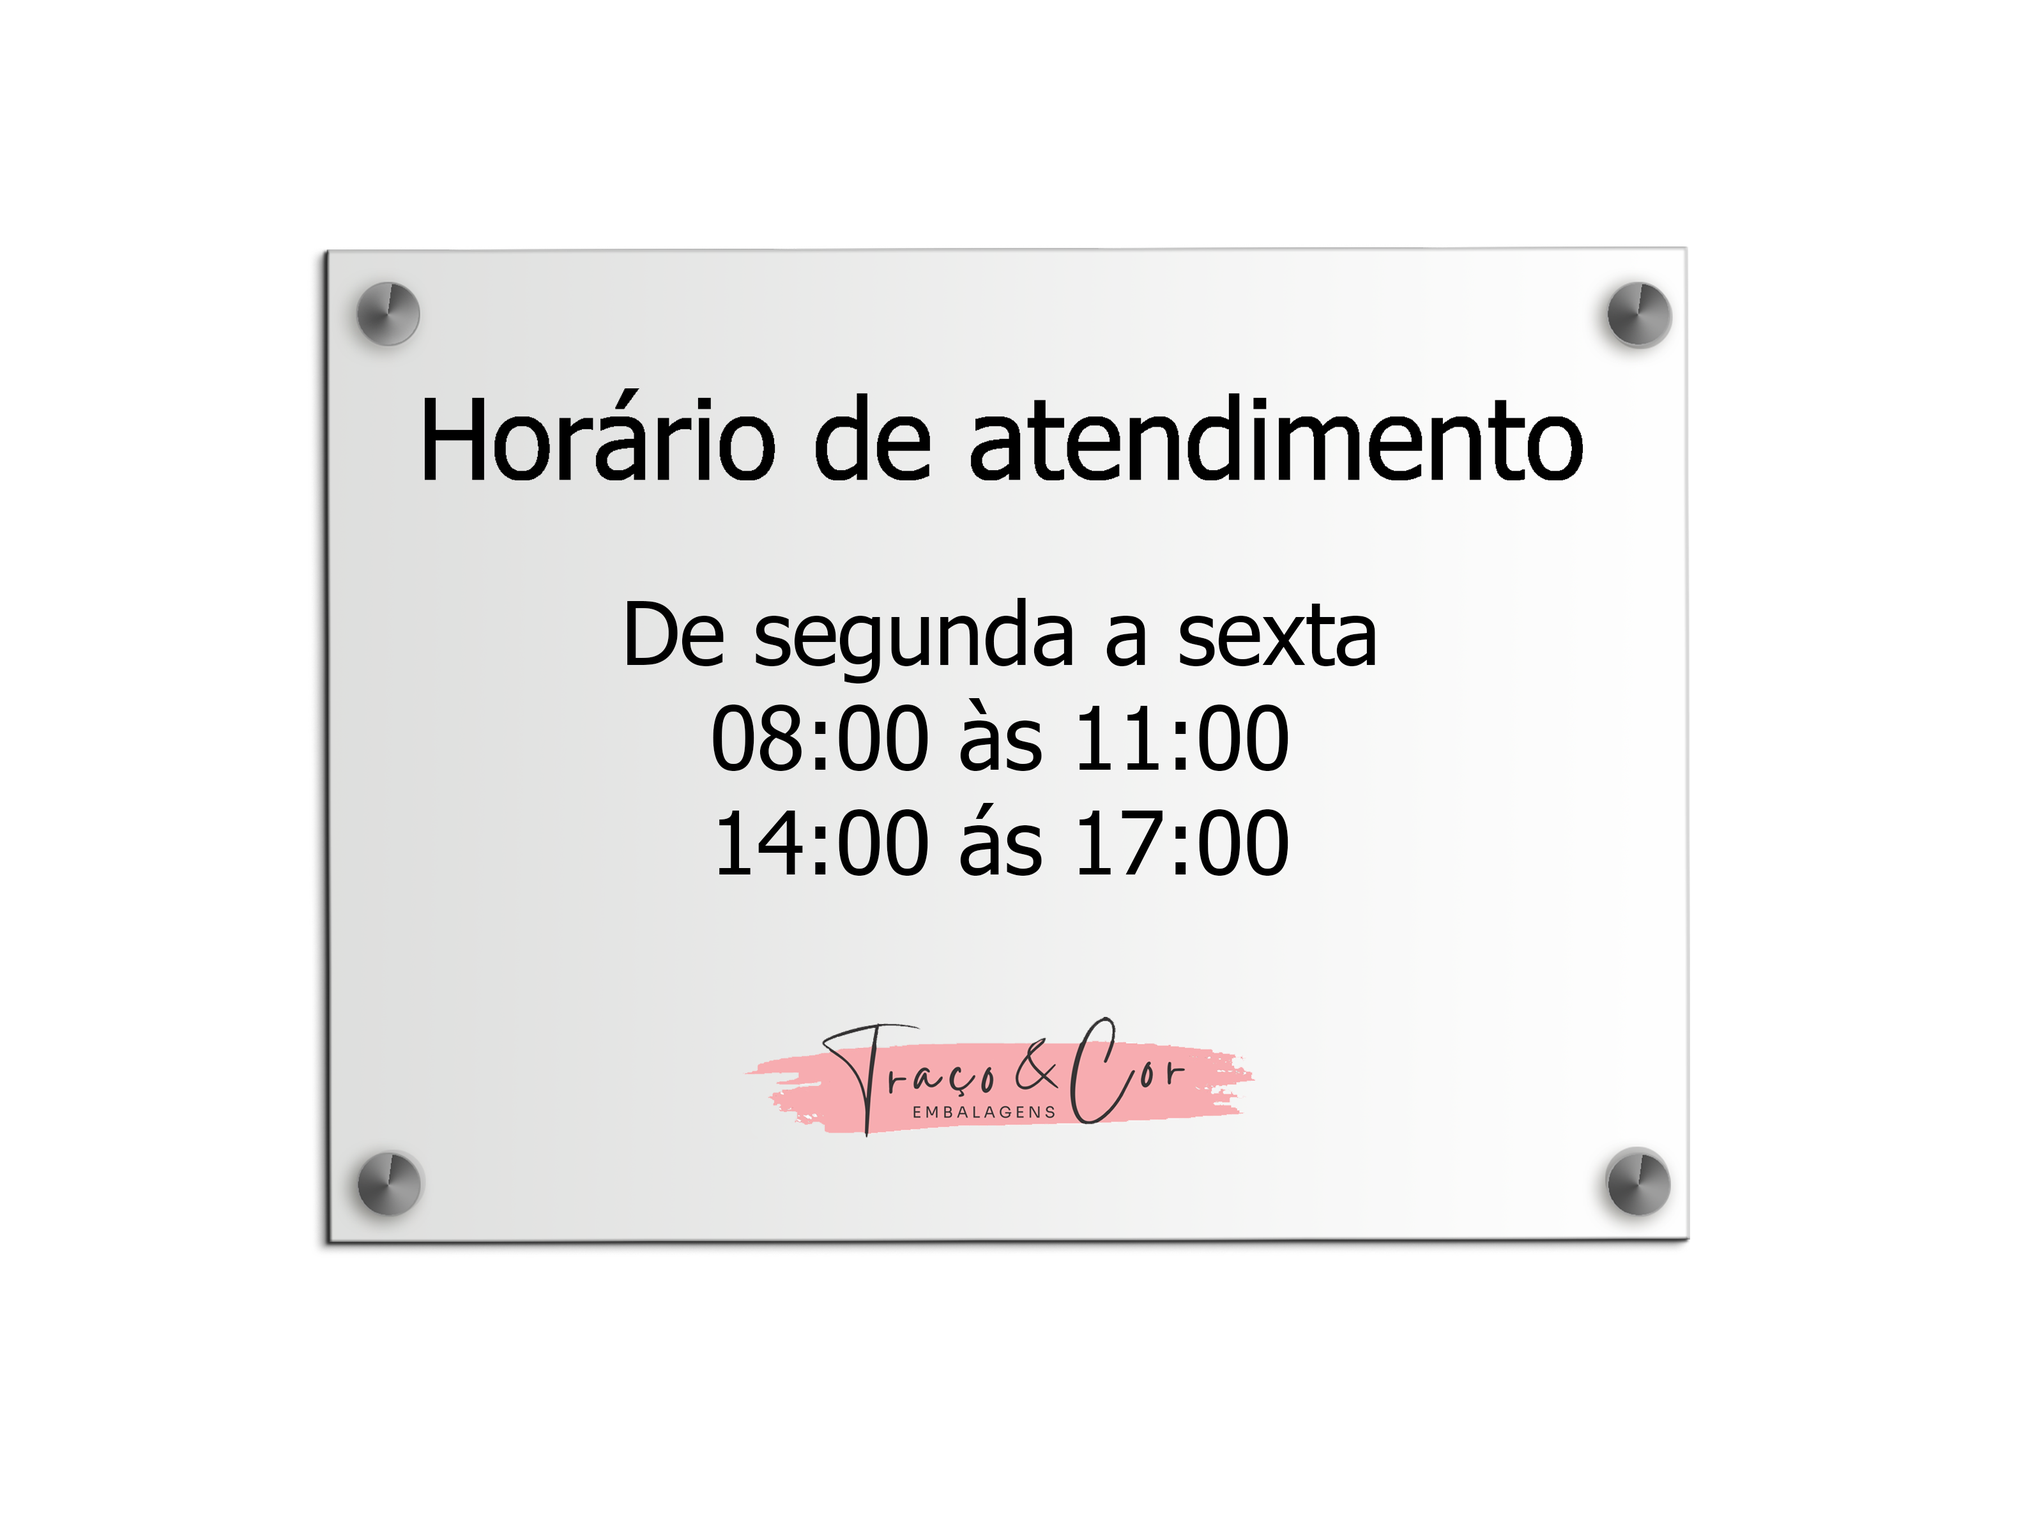
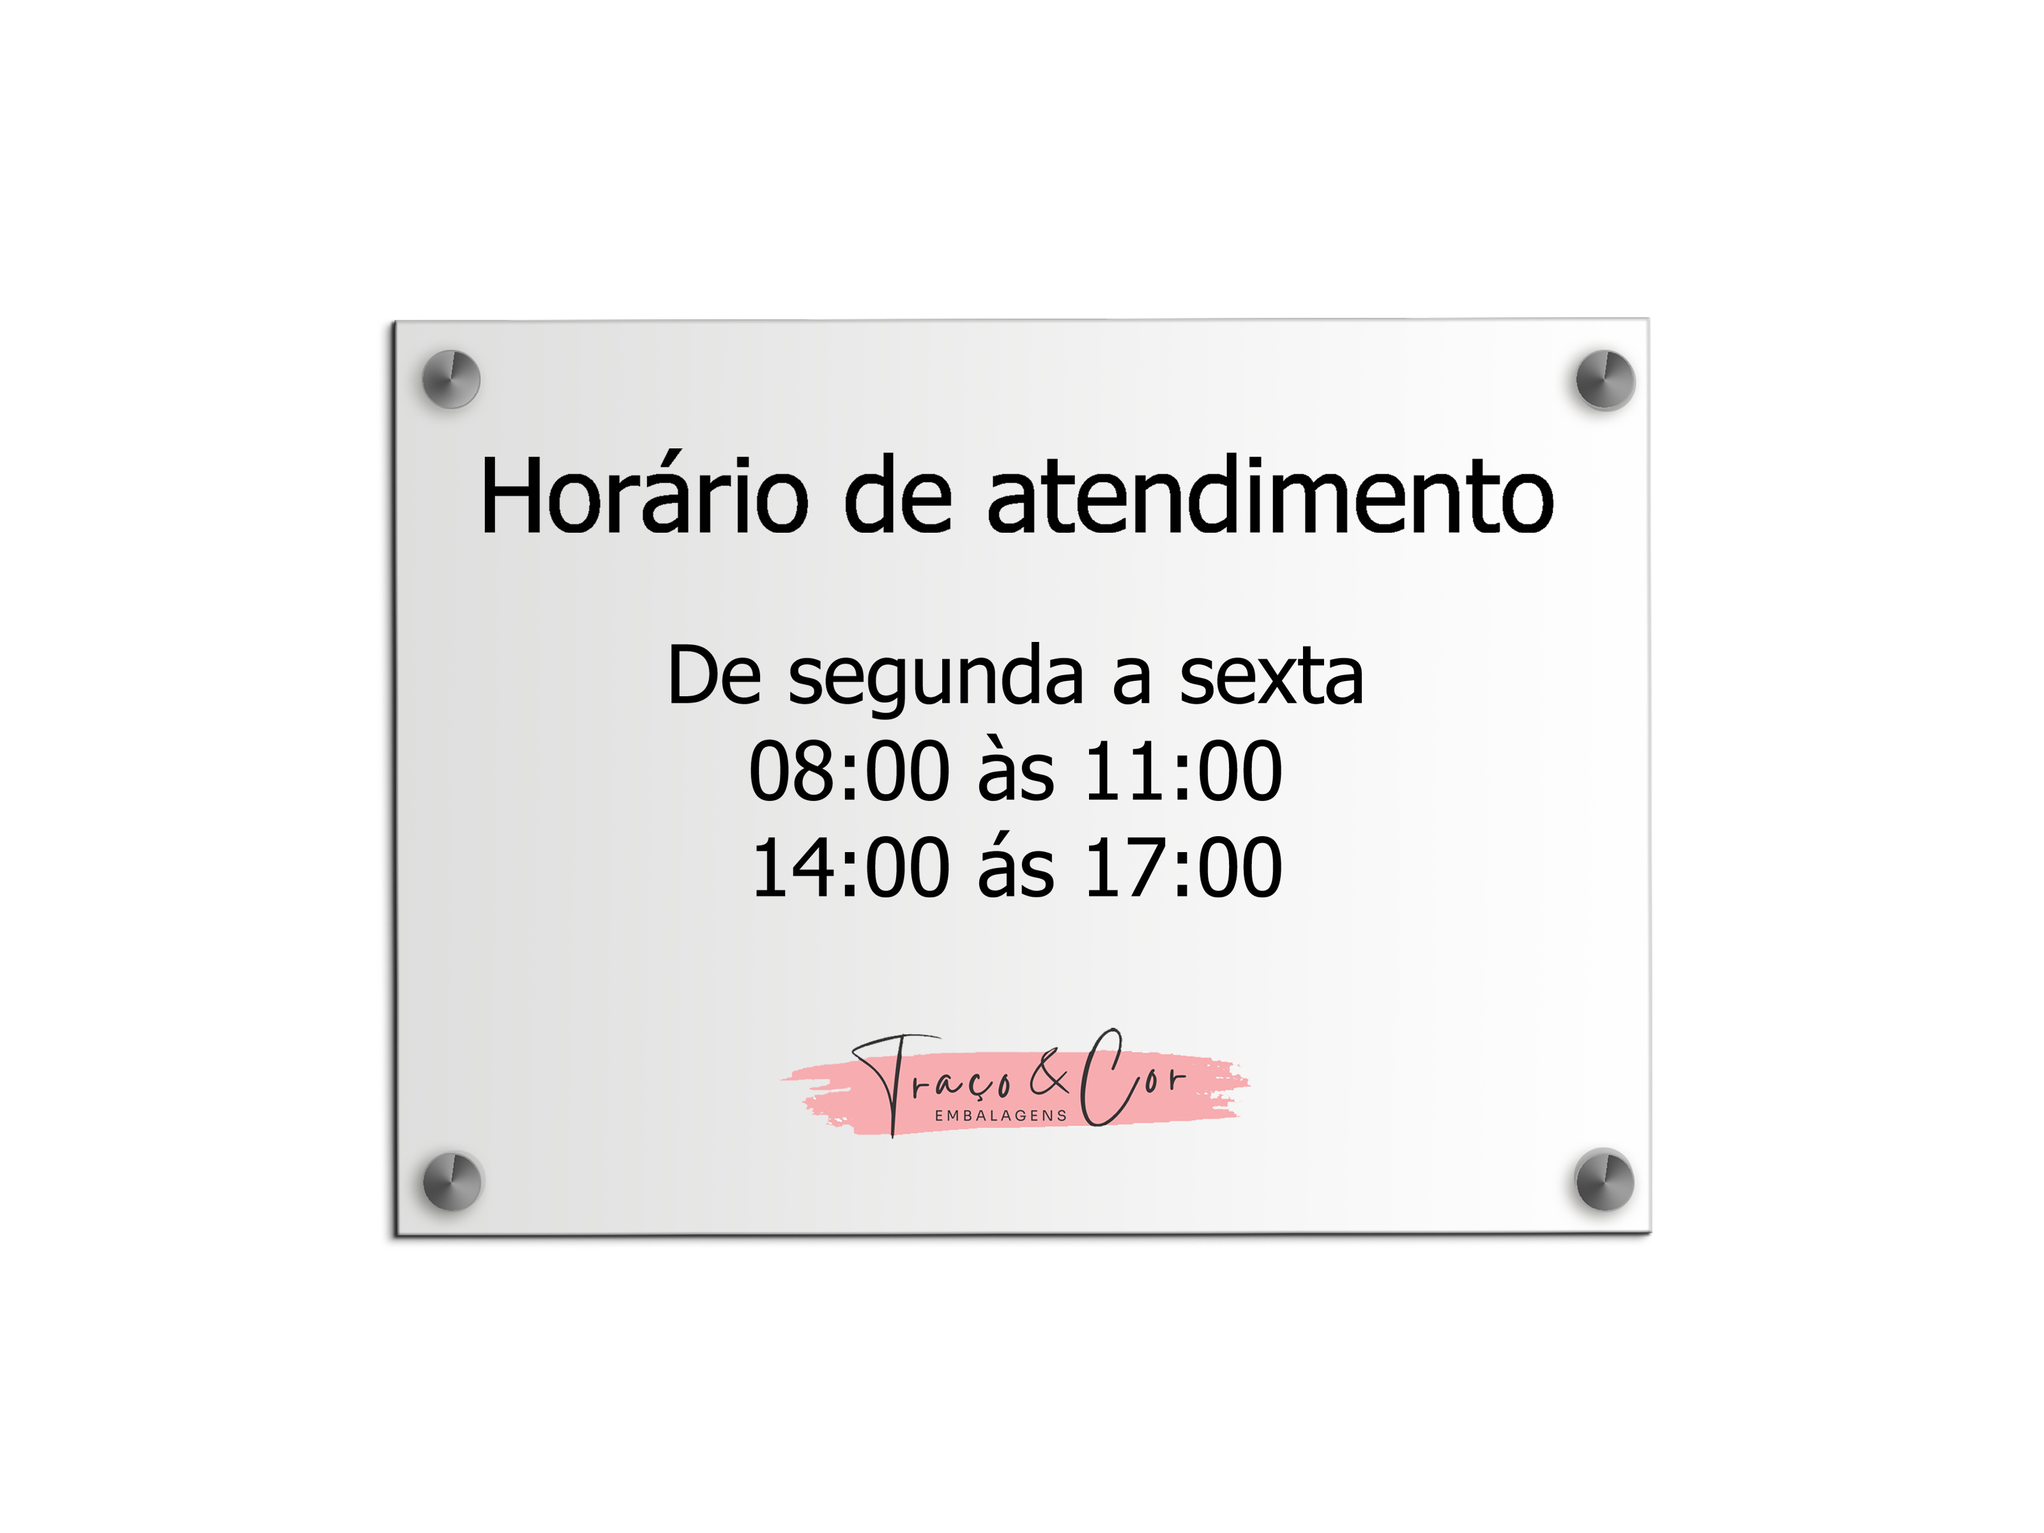
Atualização de desenvolvimento

Changed region(s): [[0.1562, 0.1562, 0.8438, 0.8438], [0.2812, 0.375, 0.6875, 0.5938], [0.375, 0.6562, 0.625, 0.75]]

diff --git a/src/pages/ProductPages/BagDuplexPage.tsx b/src/pages/ProductPages/BagDuplexPage.tsx
@@ -1,3 +1,4 @@
+import { Box } from "@mui/material";
 import ImgZoom from "../../Components/Products/ImgZoom";
 import ProductDescription from "../../Components/Products/ProductDescription";
 import ProductPageComponent from "../../Components/Products/ProductPageComponent";
@@ -18,28 +19,28 @@ const rows = [
 const BagDuplexPage: React.FC = () => {
     return (
         <ProductPageComponent rows={rows} titleTable={'Tabela de medidas sacola de papel Duplex'}>
-            <ImgZoom img="Sacola-Tec-Duplex.png" />
+                <ImgZoom img="Sacola-Tec-Duplex.png" />
 
-            <ProductDescription
-                mainTitle="Sacola de papel Duplex"
-                description="As sacolas de papel Duplex são outro tipo importante no mundo das embalagens personalizadas. 
-                            O papel Duplex é um material robusto, frequentemente utilizado para criar sacolas que não apenas têm uma 
-                            ótima aparência, mas também são capazes de suportar pesos relativamente altos."
-                applications={[
-                    {
-                        title: 'Lojas de Alto Padrão e Boutiques: ',
-                        description: `Ideal para marcas que desejam transmitir uma imagem de luxo e exclusividade, as sacolas de papel Duplex são perfeitas para embalar produtos de moda, joias, e cosméticos.`
-                    },
-                    {
-                        title: 'Lançamentos de Produtos e Edições Limitadas: ',
-                        description: `A qualidade e a estética destas sacolas as tornam escolhas ideais para o lançamento de produtos especiais ou edições limitadas, onde a primeira impressão é crucial.`
-                    },
-                    {
-                        title: 'Eventos Corporativos e Promoções: ',
-                        description: `Para empresas que desejam se destacar em eventos ou campanhas promocionais, oferecendo produtos ou materiais informativos em uma embalagem que fala volumes sobre a qualidade da marca.`
-                    }
-                ]}
-            />
+                <ProductDescription
+                    mainTitle="Sacola de papel Duplex"
+                    description="As sacolas de papel Duplex são outro tipo importante no mundo das embalagens personalizadas. 
+                                O papel Duplex é um material robusto, frequentemente utilizado para criar sacolas que não apenas têm uma 
+                                ótima aparência, mas também são capazes de suportar pesos relativamente altos."
+                    applications={[
+                        {
+                            title: 'Lojas de Alto Padrão e Boutiques: ',
+                            description: `Ideal para marcas que desejam transmitir uma imagem de luxo e exclusividade, as sacolas de papel Duplex são perfeitas para embalar produtos de moda, joias, e cosméticos.`
+                        },
+                        {
+                            title: 'Lançamentos de Produtos e Edições Limitadas: ',
+                            description: `A qualidade e a estética destas sacolas as tornam escolhas ideais para o lançamento de produtos especiais ou edições limitadas, onde a primeira impressão é crucial.`
+                        },
+                        {
+                            title: 'Eventos Corporativos e Promoções: ',
+                            description: `Para empresas que desejam se destacar em eventos ou campanhas promocionais, oferecendo produtos ou materiais informativos em uma embalagem que fala volumes sobre a qualidade da marca.`
+                        }
+                    ]}
+                />
         </ProductPageComponent>
     );
 }

diff --git a/src/Components/Products/ProductPageComponent.tsx b/src/Components/Products/ProductPageComponent.tsx
@@ -23,15 +23,49 @@ const ProductPageComponent: React.FC<ProductPageComponentProps> = ({ children, r
         <>
             <SubNavbar/>
             <Box sx={{ position: 'relative' }}>
-                <Box sx={{ display: 'flex', gap: '5rem', justifyContent: 'center', padding: '10rem', pt: '15rem' }}>
+                <Box sx={{ 
+                        display: 'flex', 
+                        gap: '5rem', 
+                        justifyContent: 'center', 
+                        padding: '10%', 
+                        pt: '15rem',
+                        '@media (max-width: 1390px)': {
+                            flexDirection: 'column',
+                            alignItems: 'center'
+                        },
+                        '@media (max-width: 600px)': {
+                            padding: '10% 2rem', 
+                        },
+                    }}>
                     {children}
                 </Box>
 
                 {rows && (
                     <Box sx={{ display: 'flex', alignItems: 'center', flexDirection: 'column', gap: '3rem' }}>
-                        <Typography fontSize={'22px'} fontWeight={600} >{titleTable}</Typography>
+                        <Typography 
+                            padding={'0 2rem'}
+                            fontSize={'22px'} 
+                            fontWeight={600} 
+                            sx={{
+                                '@media (max-width: 600px)': {
+                                    fontSize: '18px',
+                                    textAlign: 'center'
+                                },
+                            }}
+                        >
+                                {titleTable}
+                        </Typography>
 
-                        <Box sx={{ display: 'flex', gap: '5rem', justifyContent: 'center', paddingX: '2rem' }}>
+                        <Box sx={{ 
+                                display: 'flex', 
+                                gap: '5rem', 
+                                justifyContent: 'center', 
+                                paddingX: '2rem',
+                                '@media (max-width: 950px)': {
+                                    flexDirection: 'column' ,
+                                    alignItems: 'center'
+                                },
+                            }}>
                             <Box
                                 component="img"
                                 src='medidas-sacolas.png'
@@ -39,11 +73,15 @@ const ProductPageComponent: React.FC<ProductPageComponentProps> = ({ children, r
                                 sx={{
                                     width: '50rem',
                                     height: '35rem',
+                                    '@media (max-width: 560px)': {
+                                        width: '100%',
+                                        height: '100%',
+                                    },
                                 }}
                             />
-                            <Box width={'35rem'}>
-                                <TabelaMedidas rows={rows} />
-                            </Box>
+
+                            <TabelaMedidas rows={rows} />
+
                         </Box>
                     </Box>
                 )}

diff --git a/src/Components/Tabela/Tabela.tsx b/src/Components/Tabela/Tabela.tsx
@@ -36,13 +36,13 @@ export const TabelaMedidas: React.FC<TabelaMedidasProps> = ({ rows }) => {
                     <TableHead>
                         <TableRow>
                             <TableCell align="center">
-                                <Typography fontSize={'16px'} fontWeight={600}>Altura</Typography>
+                                <Typography fontSize={'14px'} fontWeight={600}>Altura</Typography>
                             </TableCell>
                             <TableCell align="center">
-                                <Typography fontSize={'16px'} fontWeight={600}>Largura</Typography>
+                                <Typography fontSize={'14px'} fontWeight={600}>Largura</Typography>
                             </TableCell>
                             <TableCell align="center">
-                                <Typography fontSize={'16px'} fontWeight={600}>Profundidade</Typography>
+                                <Typography fontSize={'14px'} fontWeight={600}>Profundidade</Typography>
                             </TableCell>
                         </TableRow>
                     </TableHead>
@@ -50,13 +50,13 @@ export const TabelaMedidas: React.FC<TabelaMedidasProps> = ({ rows }) => {
                         {rows.map((row, index) => (
                             <TableRow key={index} >
                                 <TableCell align="center">
-                                    <Typography fontSize={'16px'}>{row.altura}</Typography>
+                                    <Typography fontSize={'14px'}>{row.altura}</Typography>
                                 </TableCell>
                                 <TableCell align="center">
-                                    <Typography fontSize={'16px'}>{row.largura}</Typography>
+                                    <Typography fontSize={'14px'}>{row.largura}</Typography>
                                 </TableCell>
                                 <TableCell align="center">
-                                    <Typography fontSize={'16px'}>{row.lateral}</Typography>
+                                    <Typography fontSize={'14px'}>{row.lateral}</Typography>
                                 </TableCell>
                             </TableRow>
                         ))}

diff --git a/src/Components/Stepper/SectionStepper.tsx b/src/Components/Stepper/SectionStepper.tsx
@@ -2,6 +2,7 @@ import React from 'react';
 import StepperMobile from './StepperMobile';
 import Stepper from './Stepper';
 import { Box, ButtonBase, Typography } from '@mui/material';
+import { whatsMessage } from '../../utils';
 
 const aboutTexBox = {
     display: 'flex',
@@ -45,12 +46,14 @@ const SectionStepper: React.FC = () => {
                 </Typography>
                 <Stepper />
                 <StepperMobile />
-                <ButtonBase sx={{
-                    bgcolor: '#FFC9C9',
-                    width: '25rem',
-                    boxShadow: '0 0px 6px 0 rgba(0, 0, 0, 0.1)',
-                    borderRadius: '50rem'
-                }}>
+                <ButtonBase onClick={() => {whatsMessage()}} 
+                    sx={{
+                        bgcolor: '#FFC9C9',
+                        width: '25rem',
+                        boxShadow: '0 0px 6px 0 rgba(0, 0, 0, 0.1)',
+                        borderRadius: '50rem'
+                    }}
+                >
                     Realizar orçamento
                 </ButtonBase>
             </Box>

diff --git a/src/Components/Navbar/Navbar.tsx b/src/Components/Navbar/Navbar.tsx
@@ -42,6 +42,11 @@ const NavBar: React.FC<NavBarProps> = ({ boxStyle, img, heightImg, smButtons }) 
         )
     }
 
+    const handleClick = () => {
+        navigate('/', { replace: false });
+        window.scrollTo({top: 0, behavior: 'smooth'});
+    }
+
     return (
         <Box sx={{
             ...boxStyle,
@@ -54,9 +59,11 @@ const NavBar: React.FC<NavBarProps> = ({ boxStyle, img, heightImg, smButtons }) 
             zIndex: 1000,
         }}>
 
-            <Box sx={{ cursor: 'pointer', height: heightImg }}>
-                <img src={img} alt="Logo" style={{ width: '100%', height: '100%' }} />
-            </Box>
+            <ButtonBase  sx={{ padding: 0 }} onClick={handleClick}>
+                <Box sx={{ cursor: 'pointer', height: heightImg }}>
+                    <img src={img} alt="Logo" style={{ width: '100%', height: '100%' }} />
+                </Box>
+            </ButtonBase>
 
             {!isMobile && (
                 <>

diff --git a/src/Components/Rodape/Rodape.tsx b/src/Components/Rodape/Rodape.tsx
@@ -106,10 +106,10 @@ const Rodape: React.FC = () => {
                                 <Typography fontSize={'13px'} >R. Servidão Santa Matilde, 135 - João Costa, Joinville - SC, 89209-050</Typography>
                             </Box>
                             <Box display={'flex'} alignSelf={'center'}>
-                                <IconButton>
+                                <IconButton onClick={() => {window.open('https://www.instagram.com/tecembalagens/', '_blank')}}>
                                     <InstagramLogo size={30} color='#252525' />
                                 </IconButton>
-                                <IconButton>
+                                <IconButton onClick={() => {whatsMessage()}}>
                                     <WhatsappLogo size={30} color='#252525' />
                                 </IconButton>
                             </Box>

diff --git a/src/Components/Navbar/HomeNavbar.tsx b/src/Components/Navbar/HomeNavbar.tsx
@@ -1,7 +1,12 @@
 import React from 'react';
 import NavBar from './Navbar';
+import {useTheme, useMediaQuery  } from '@mui/material';
 
 const HomeNavbar: React.FC = () => {
+    const theme = useTheme();
+    const isSmallScreen = useMediaQuery(theme.breakpoints.down(1060));
+    const imgHeight = isSmallScreen ? '5rem' : '7rem';
+
     return (
         <>
             <NavBar boxStyle={{
@@ -11,7 +16,7 @@ const HomeNavbar: React.FC = () => {
                 '@media (max-width: 1250px)': {
                     padding: '5rem 5%',
                 },
-            }} img='Tec logo 2024.png' heightImg='7rem' />
+            }} img='Tec logo 2024.png' heightImg={imgHeight} />
         </>
     )
 }

diff --git a/src/Components/Products/ImgZoom.tsx b/src/Components/Products/ImgZoom.tsx
@@ -48,6 +48,10 @@ const ImgZoom: React.FC<ComponentProp> = ({ img }) => {
                         transformOrigin: `${position.x}% ${position.y}%`,
                         transform: zoom ? 'scale(2)' : 'scale(1)',
                         objectFit: 'cover',
+                        '@media (max-width: 500px)': {
+                            width: '80%',
+                            height: '80%',
+                        },
                     }}
                 />
             </Box>

diff --git a/src/Components/Stepper/Stepper.tsx b/src/Components/Stepper/Stepper.tsx
@@ -137,7 +137,7 @@ const Stepper = () => {
                     boxSizing: 'border-box',
                     '-ms-overflow-style': 'none', // IE and Edge
                     'scrollbar-width': 'none', // Firefox
-                    '&::-webkit-scrollbar': { // Oculta a scrollbar no Webkit/Blink browsers
+                    '&::-webkit-scrollbar': { 
                         display: 'none',
                     },
                     '@media (max-width: 1100px)': {

diff --git a/src/Components/Navbar/ButtonNavbar/SmButtonNavbar.tsx b/src/Components/Navbar/ButtonNavbar/SmButtonNavbar.tsx
@@ -28,8 +28,8 @@ const Style = {
 const SmButtonNavbar: React.FC<SmButtonNavbarProps> = ({ name, onClick }) => {
 
     const handleClick = () => {
-        window.scrollTo({top: 0, behavior: 'smooth'});
         onClick();
+        window.scrollTo({top: 0, behavior: 'smooth'});
     }
 
     return (

diff --git a/src/Components/Navbar/ButtonNavbar/ButtonNavbar.tsx b/src/Components/Navbar/ButtonNavbar/ButtonNavbar.tsx
@@ -28,8 +28,8 @@ const Style = {
 const ButtonNavbar: React.FC<ButtonNavbarProps> = ({ name, onClick }) => {
 
     const handleClick = () => {
-        window.scrollTo({top: 0, behavior: 'smooth'});
         onClick();
+        window.scrollTo({top: 0, behavior: 'smooth'});
     }
 
     return (
